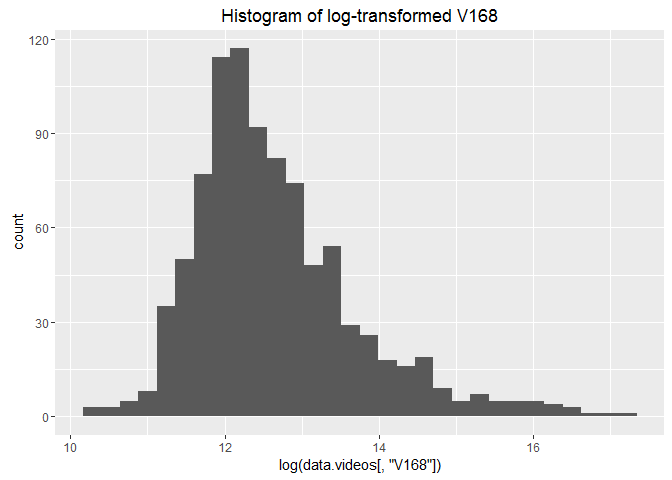
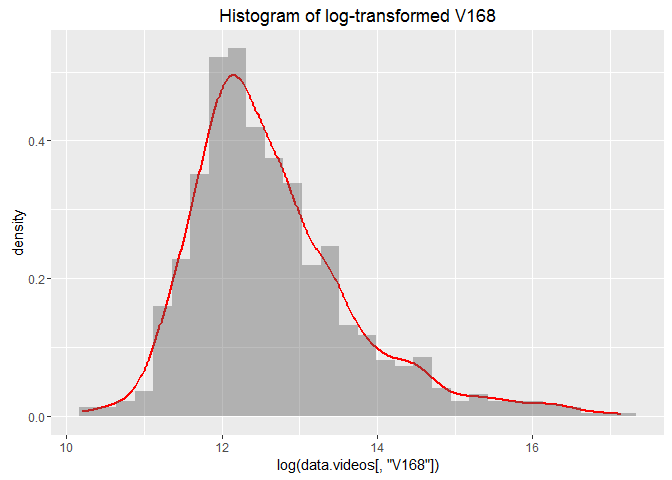
V 0.0.10
1. Added density plot for log(V168).
2. Added skewness for log(V168).

diff --git a/README.html b/README.html
@@ -132,14 +132,15 @@ $(document).ready(function () {
 <pre class="r"><code>set.seed(1234567)
 rm(list = ls())
 if (!require(&quot;pacman&quot;)) install.packages(&quot;pacman&quot;)
-pacman::p_load(data.table, dplyr, ggplot2, caret, nortest, corrplot)
+pacman::p_load(data.table, dplyr, ggplot2, caret, nortest, corrplot, moments)
 
 library(data.table)
 library(dplyr)
 library(ggplot2)
 library(caret)
 library(nortest) # Anderson-Darling test for normality
-library(corrplot)</code></pre>
+library(corrplot)
+library(moments) # skewness</code></pre>
 </div>
 <div id="reading-data" class="section level2">
 <h2>1. Reading data</h2>
@@ -181,9 +182,11 @@ tail(data.videos) # ...and last 6 observations of the data set to check if it wa
 </div>
 <div id="distribution-of-log-transformed-v168" class="section level3">
 <h3>1.3 Distribution of log-transformed v(168)</h3>
-<pre class="r"><code>qplot(log(data.videos[, &quot;V168&quot;]), main = &quot;Histogram of log-transformed V168&quot;,
-      bins = 30)</code></pre>
[1 lines of base64/hex data omitted]
+<pre class="r"><code>qplot(log(data.videos[, &quot;V168&quot;]), geom = &quot;blank&quot;,
+  main = &quot;Histogram of log-transformed V168&quot;) +   
+  geom_line(aes(y = ..density.., colour = I(&quot;red&quot;)), stat = &quot;density&quot;, size = 1) +
+  geom_histogram(aes(y = ..density..), alpha = 0.4, bins = 30) </code></pre>
[1 lines of base64/hex data omitted]
 <pre class="r"><code>ad.test(log(data.videos[, &quot;V168&quot;]))</code></pre>
 <pre><code>## 
 ##  Anderson-Darling normality test
@@ -196,7 +199,7 @@ tail(data.videos) # ...and last 6 observations of the data set to check if it wa
 ## 
 ## data:  log(data.videos[, &quot;V168&quot;])
 ## W = 0.92821, p-value &lt; 2.2e-16</code></pre>
-<p>The distribution looks a bit similar to the normal one, however both Shapiro and Anderson-Darling test suggest rejection of null hypothesis of the data being distributed normally.</p>
+<p>The distribution looks a bit similar to the normal one, however both Shapiro and Anderson-Darling test suggest rejection of null hypothesis of the data being distributed normally. The skewness at level 1.1599781 suggests that the distribution is skewed to the right.</p>
 </div>
 <div id="outliers-of-v168" class="section level3">
 <h3>1.4 Outliers of v(168)</h3>
@@ -289,8 +292,8 @@ mRSE.multiple.vars$mRSE.test</code></pre>
 ## [19] 0.07182078 0.06711802 0.06154384 0.05830124 0.05565598 0.05176412</code></pre>
 <p>Model resulted in minimum RMSE was the 24th one, therefore it also contained all log-transformed 24 variables.</p>
 </div>
-<div id="mrse-visualization-" class="section level3">
-<h3>1.10 mRSE visualization—-</h3>
+<div id="mrse-visualization" class="section level3">
+<h3>1.10 mRSE visualization</h3>
 <p>Preparing data for ggplot2 - melting in order to plot multiple lines on one plot:</p>
 <pre class="r"><code>mRSE.compare &lt;- cbind(index = seq_along(mRSE.single.var$mRSE.test),
                       mRSE.single.var = mRSE.single.var$mRSE.test, 

diff --git a/README.md b/README.md
@@ -11,7 +11,7 @@
 set.seed(1234567)
 rm(list = ls())
 if (!require("pacman")) install.packages("pacman")
-pacman::p_load(data.table, dplyr, ggplot2, caret, nortest, corrplot)
+pacman::p_load(data.table, dplyr, ggplot2, caret, nortest, corrplot, moments)
 
 library(data.table)
 library(dplyr)
@@ -19,6 +19,7 @@ library(ggplot2)
 library(caret)
 library(nortest) # Anderson-Darling test for normality
 library(corrplot)
+library(moments) # skewness
 ```
 
 ## 1. Reading data
@@ -106,7 +107,7 @@ qplot(data.videos[, "V168"], main = "Histogram for V168", bins = 30)
 <p align="center">
 	<img src="README_files/figure-html/unnamed-chunk-7-1.png" style="display: block; margin: auto;" />
 </p>
-	
+
 ```r
 plot(ecdf(data.videos[, "V168"]), main = "Cumulative distribution function for V168")
 ```
@@ -119,10 +120,11 @@ The distribution reminds some kind of Weibull distribution?
 
 
 ```r
-qplot(log(data.videos[, "V168"]), main = "Histogram of log-transformed V168",
-      bins = 30)
+qplot(log(data.videos[, "V168"]), geom = "blank",
+  main = "Histogram of log-transformed V168") +   
+  geom_line(aes(y = ..density.., colour = I("red")), stat = "density", size = 1) +
+  geom_histogram(aes(y = ..density..), alpha = 0.4, bins = 30) 
 ```
-
 <p align="center">
 	<img src="README_files/figure-html/unnamed-chunk-8-1.png" style="display: block; margin: auto;" />
 </p>
@@ -150,10 +152,11 @@ shapiro.test(log(data.videos[, "V168"]))
 ## data:  log(data.videos[, "V168"])
 ## W = 0.92821, p-value < 2.2e-16
 ```
-
 The distribution looks a bit similar to the normal one, however both Shapiro
 and Anderson-Darling test suggest rejection of null hypothesis of the data 
-being distributed normally.
+being distributed normally. The skewness at level
+1.1599781 suggests that the distribution is skewed to
+the right.
 
 ### 1.4 Outliers of v(168)
 
@@ -196,6 +199,7 @@ log.cor <- cor(data.videos[, c(paste0("ln.V", c(1:24, 168)))])
 corrplot.mixed(log.cor, lower = "pie", upper = "number", tl.pos = "lt", 
                tl.cex = 1, number.cex = 0.6, pch.cex = 5, cl.cex = 1/par("cex"))
 ```
+
 <p align="center">
 	<img src="README_files/figure-html/unnamed-chunk-13-1.png" style="display: block; margin: auto;" />
 </p>
